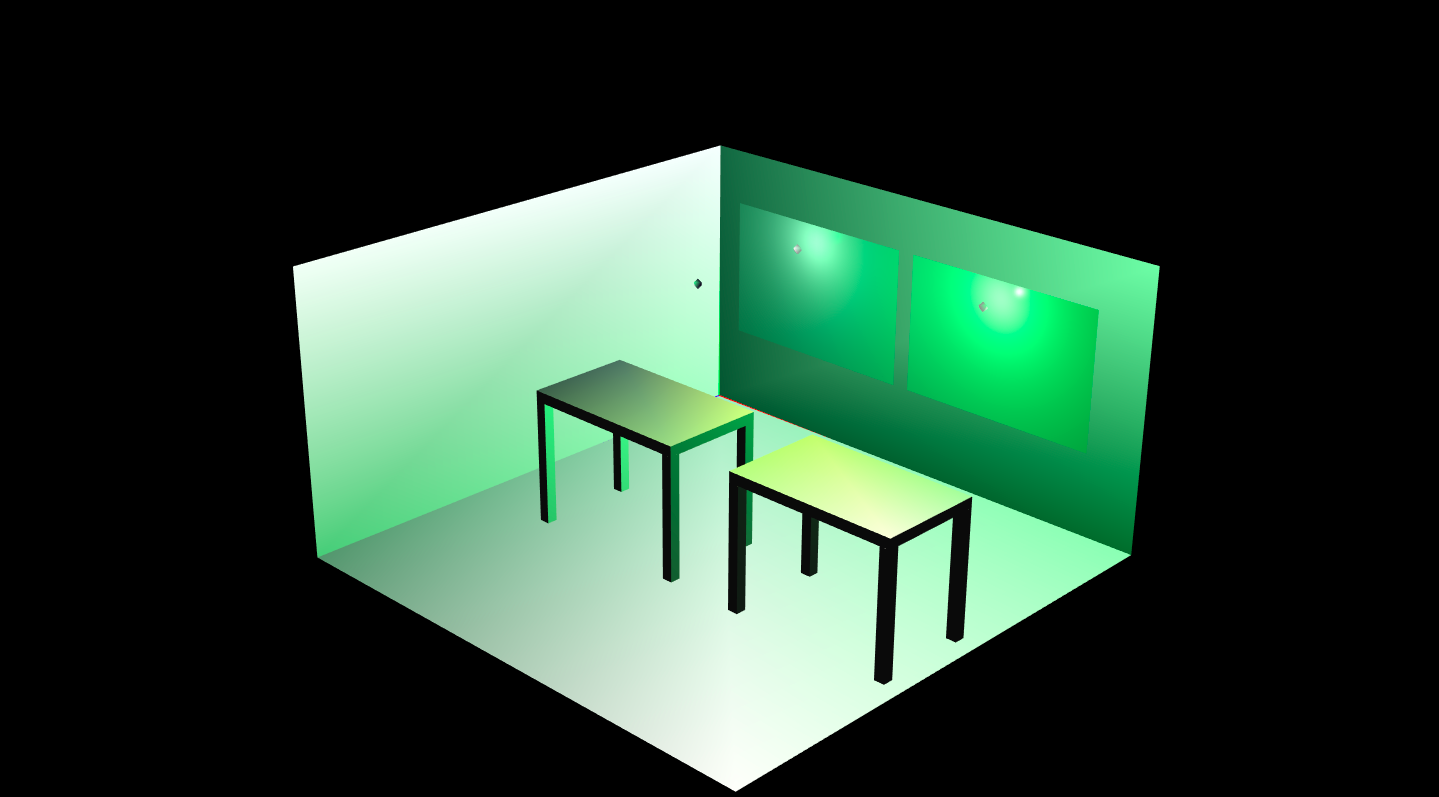
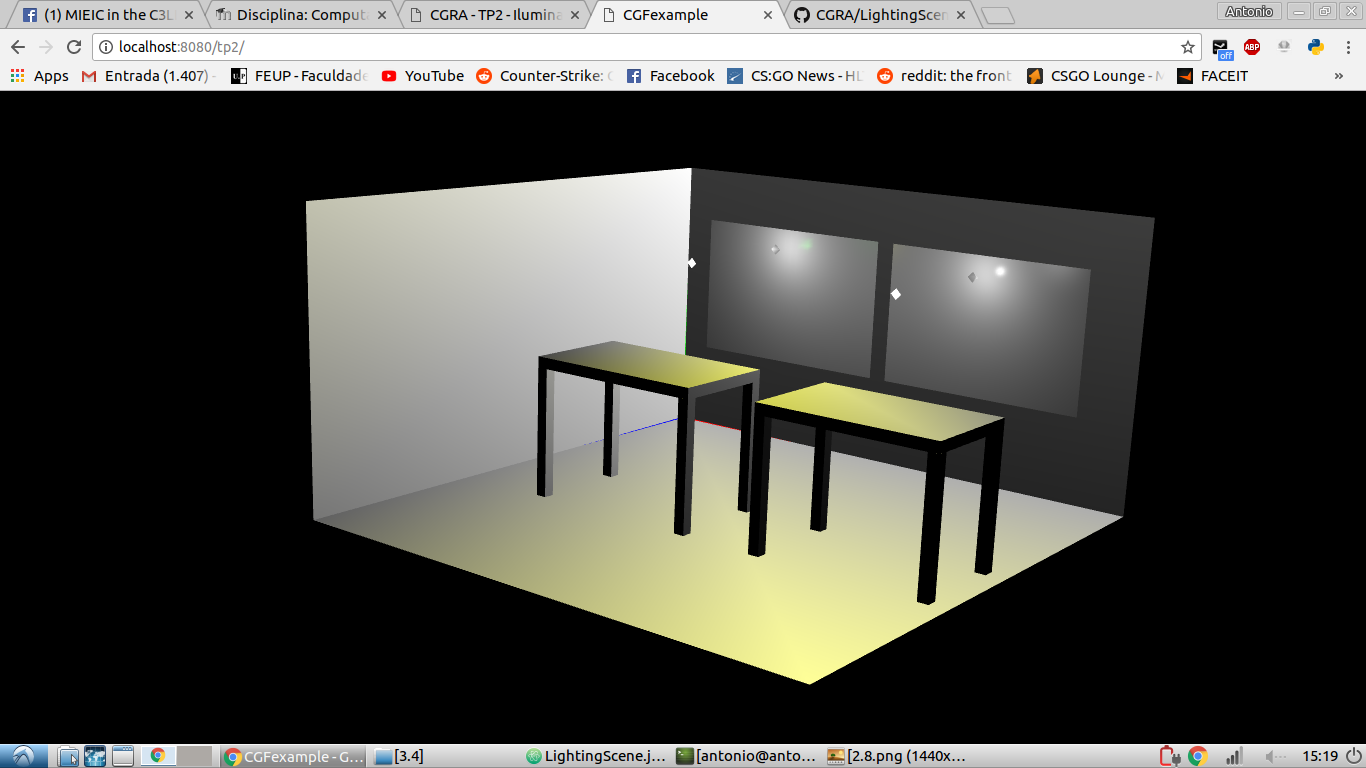
Agora sim feito porque foi preciso ajuda do Acacio ;)

diff --git a/tp2/LightingScene.js b/tp2/LightingScene.js
@@ -61,7 +61,7 @@ class LightingScene extends CGFscene
 
 	initLights()
 	{
-		this.setGlobalAmbientLight(0,0,0, 0);
+		this.setGlobalAmbientLight(0,0,0, 1.0);
 
 		// Positions for four lights
 		this.lights[0].setPosition(4, 6, 1, 1);
@@ -73,15 +73,13 @@ class LightingScene extends CGFscene
 		this.lights[2].setPosition(10.5, 6.0, 5.0, 1.0);
 		this.lights[2].setVisible(true);
 
+		//this.lights[1].setVisible(true); // show marker on light position (different from enabled)
 		this.lights[3].setPosition(4, 6.0, 5.0, 1.0);
-		this.lights[3].setVisible(true);
-
-		//this.lights[1].setVisible(true); // show marker on light position (different from enabled)
-		//this.lights[1].setVisible(true); // show marker on light position (different from enabled)
+		this.lights[3].setVisible(true); // show marker on light position (different from enabled)
 
 		this.lights[0].setAmbient(0, 0, 0, 1);
 		this.lights[0].setDiffuse(1.0, 1.0, 1.0, 1.0);
-		this.lights[0].setSpecular(1,1,0,0);
+		this.lights[0].setSpecular(1,1,0,1);
 		this.lights[0].enable();
 
 		this.lights[1].setAmbient(0, 0, 0, 1);
@@ -89,18 +87,21 @@ class LightingScene extends CGFscene
 		this.lights[1].enable();
 
 		this.lights[2].setAmbient(0, 0, 0, 1);
+		this.lights[2].setDiffuse(1.0, 1.0, 1.0, 1.0);
 		this.lights[2].setSpecular(1,1,1,1);
-		this.lights[2].setDiffuse(0,1,0,1);
 		this.lights[2].setConstantAttenuation(0);
-		this.lights[2].setLinearAttenuation(1.0);
+	  this.lights[2].setLinearAttenuation(1);
+	  this.lights[2].setQuadraticAttenuation(0);
 		this.lights[2].enable();
 
 		this.lights[3].setAmbient(0, 0, 0, 1);
-	this.lights[3].setDiffuse(1.0, 1.0, 1.0, 1.0);
-	this.lights[3].setSpecular(1.0,1.0,0,1.0);
-	this.lights[3].setConstantAttenuation(0);
-	this.lights[3].setQuadraticAttenuation(1);
-	this.lights[3].enable();
+		this.lights[3].setDiffuse(1.0, 1.0, 1.0, 1.0);
+		this.lights[3].setSpecular(1,1,0,1);
+		this.lights[3].setConstantAttenuation(0);
+	  this.lights[3].setLinearAttenuation(0);
+	  this.lights[3].setQuadraticAttenuation(0.2);
+		this.lights[3].enable();
+
 	};
 
 	updateLights()

diff --git a/tp2/3.4/LightingScene.js b/tp2/3.4/LightingScene.js
@@ -61,7 +61,7 @@ class LightingScene extends CGFscene
 
 	initLights()
 	{
-		this.setGlobalAmbientLight(0,0,0, 0);
+		this.setGlobalAmbientLight(0,0,0, 1.0);
 
 		// Positions for four lights
 		this.lights[0].setPosition(4, 6, 1, 1);
@@ -71,26 +71,37 @@ class LightingScene extends CGFscene
 		this.lights[1].setVisible(true); // show marker on light position (different from enabled)
 
 		this.lights[2].setPosition(10.5, 6.0, 5.0, 1.0);
-		this.lights[2].setSpecular(1,1,1,1);
-		this.lights[2].enable();
-		this.lights[2].setDiffuse(0,1,0,1);
+		this.lights[2].setVisible(true);
 
 		//this.lights[1].setVisible(true); // show marker on light position (different from enabled)
-		//this.lights[1].setVisible(true); // show marker on light position (different from enabled)
+		this.lights[3].setPosition(4, 6.0, 5.0, 1.0);
+		this.lights[3].setVisible(true); // show marker on light position (different from enabled)
 
 		this.lights[0].setAmbient(0, 0, 0, 1);
 		this.lights[0].setDiffuse(1.0, 1.0, 1.0, 1.0);
+		this.lights[0].setSpecular(1,1,0,1);
 		this.lights[0].enable();
-		this.lights[0].setSpecular(1,1,0,0);
 
 		this.lights[1].setAmbient(0, 0, 0, 1);
 		this.lights[1].setDiffuse(1.0, 1.0, 1.0, 1.0);
 		this.lights[1].enable();
 
-		this.lights[3].setPosition(4, 6.0, 5.0, 1.0);
-		this.lights[3].setDiffuse(0, 0, 0.2, 1.0);
+		this.lights[2].setAmbient(0, 0, 0, 1);
+		this.lights[2].setDiffuse(1.0, 1.0, 1.0, 1.0);
+		this.lights[2].setSpecular(1,1,1,1);
+		this.lights[2].setConstantAttenuation(0);
+	  this.lights[2].setLinearAttenuation(1);
+	  this.lights[2].setQuadraticAttenuation(0);
+		this.lights[2].enable();
+
+		this.lights[3].setAmbient(0, 0, 0, 1);
+		this.lights[3].setDiffuse(1.0, 1.0, 1.0, 1.0);
+		this.lights[3].setSpecular(1,1,0,1);
+		this.lights[3].setConstantAttenuation(0);
+	  this.lights[3].setLinearAttenuation(0);
+	  this.lights[3].setQuadraticAttenuation(0.2);
 		this.lights[3].enable();
-		this.lights[3].setVisible(true);
+
 	};
 
 	updateLights()

diff --git a/tp2/3.4/MyQuad.js b/tp2/3.4/MyQuad.js
@@ -1,5 +1,5 @@
 /**
- * MyQuad
+ * MyObject
  * @param gl {WebGLRenderingContext}
  * @constructor
  */
@@ -14,7 +14,6 @@ class MyQuad extends CGFobject
 
 	initBuffers()
 	{
-
 		this.vertices = [
 				-0.5, -0.5, 0,
 				0.5, -0.5, 0,
@@ -26,18 +25,14 @@ class MyQuad extends CGFobject
 				0, 1, 2,
 				3, 2, 1,
 			];
-
-
+		this.normals = [
+				0,0,1,
+				0,0,1,
+				0,0,1,
+				0,0,1,
+			];
 
 		this.primitiveType=this.scene.gl.TRIANGLES;
-
-		this.normals = [
-			0,0,1,
-			0,0,1,
-			0,0,1,
-			0,0,1,
-		];
-
 		this.initGLBuffers();
 	};
 };

diff --git a/tp2/MyQuad.js b/tp2/MyQuad.js
@@ -1,5 +1,5 @@
 /**
- * MyQuad
+ * MyObject
  * @param gl {WebGLRenderingContext}
  * @constructor
  */
@@ -14,7 +14,6 @@ class MyQuad extends CGFobject
 
 	initBuffers()
 	{
-
 		this.vertices = [
 				-0.5, -0.5, 0,
 				0.5, -0.5, 0,
@@ -26,18 +25,14 @@ class MyQuad extends CGFobject
 				0, 1, 2,
 				3, 2, 1,
 			];
-
-
+		this.normals = [
+				0,0,1,
+				0,0,1,
+				0,0,1,
+				0,0,1,
+			];
 
 		this.primitiveType=this.scene.gl.TRIANGLES;
-
-		this.normals = [
-			0,0,1,
-			0,0,1,
-			0,0,1,
-			0,0,1,
-		];
-
 		this.initGLBuffers();
 	};
 };

diff --git a/tp2/3.4/MyTable.js b/tp2/3.4/MyTable.js
@@ -10,7 +10,7 @@
  	{
  		super(scene);
     this.cube=new MyUnitCubeQuad(this.scene);
-    this.leg = new MyLeg(this.scene);
+    this.leg = new myLeg(this.scene);
  	};
   display()
   {

diff --git a/tp2/MyTable.js b/tp2/MyTable.js
@@ -10,7 +10,7 @@
  	{
  		super(scene);
     this.cube=new MyUnitCubeQuad(this.scene);
-    this.leg = new MyLeg(this.scene);
+    this.leg = new myLeg(this.scene);
  	};
   display()
   {

diff --git a/tp2/3.4/main.js b/tp2/3.4/main.js
@@ -9,7 +9,7 @@ serialInclude([
 	'MyUnitCubeQuad.js',
 	'MyTable.js',
 	'Plane.js',
-	'MyLeg.js',
+	'myLeg.js',
 
 	main=function() {
 		var app = new CGFapplication(document.body);

diff --git a/tp2/main.js b/tp2/main.js
@@ -9,7 +9,7 @@ serialInclude([
 	'MyUnitCubeQuad.js',
 	'MyTable.js',
 	'Plane.js',
-	'MyLeg.js',
+	'myLeg.js',
 
 	main=function() {
 		var app = new CGFapplication(document.body);
